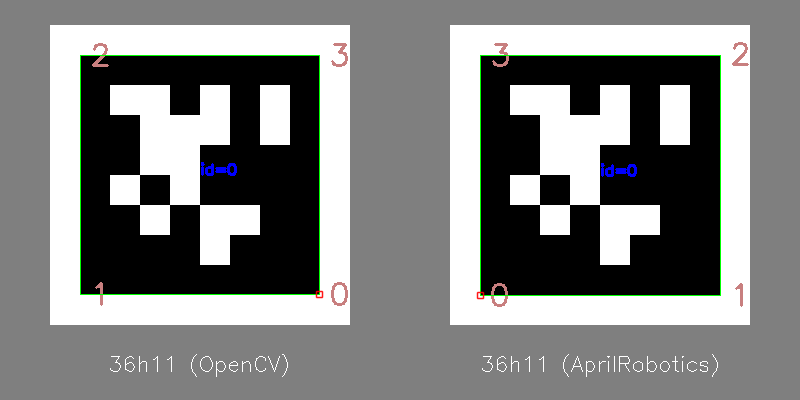
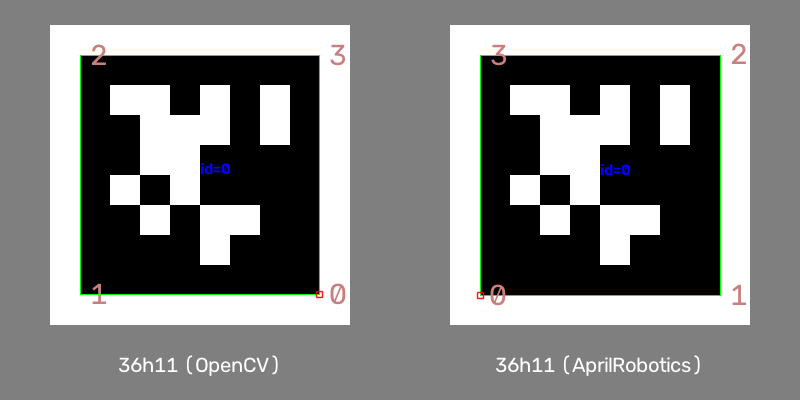
Merge pull request #28823 from s-trinh:fix_apriltag_corners_order_update_doc
[OpenCV 5] Fix apriltag corners order and update the doc #28823

I have updated documentation for the AprilTag dictionaries.

Corresponding issues:
- https://github.com/opencv/opencv-python/issues/1195
- https://stackoverflow.com/questions/79044142/why-is-the-order-of-the-incoming-corners-different-between-apriltag-and-aruco-ma

This is a breaking change and is targeted only for OpenCV 5.

---

I have updated the ArUco doc with more information about fiducial markers detection.
I have tried to add some recommendations, best practices:
-  `DICT_ARUCO_MIP_36h12` should be the recommended family, [see](https://stackoverflow.com/a/51511558)
- link to download pregenerated markers for `MIP_36h12` is [here](https://sourceforge.net/projects/aruco/files/. I have not found some other official links for the other ArUco family, but since `MIP_36h12` should be used, I guess it is fined.
- recommendation to have a white border when printing the marker

### Pull Request Readiness Checklist

See details at https://github.com/opencv/opencv/wiki/How_to_contribute#making-a-good-pull-request

- [x] I agree to contribute to the project under Apache 2 License.
- [x] To the best of my knowledge, the proposed patch is not based on a code under GPL or another license that is incompatible with OpenCV
- [x] The PR is proposed to the proper branch
- [x] There is a reference to the original bug report and related work
[…]

diff --git a/modules/objdetect/include/opencv2/objdetect.hpp b/modules/objdetect/include/opencv2/objdetect.hpp
@@ -74,7 +74,7 @@
 
         The implementation is based on the ArUco Library by R. Muñoz-Salinas and S. Garrido-Jurado @cite Aruco2014.
 
-        Markers can also be detected based on the AprilTag 2 @cite wang2016iros fiducial detection method.
+        Markers can also be detected based on the AprilTag 2 @cite wang2016iros fiducial marker detection method.
 
         @sa @cite Aruco2014
         This code has been originally developed by Sergio Garrido-Jurado as a project
@@ -136,7 +136,7 @@
 
         To estimate the marker pose with respect to the camera frame, we recommend you to look at the following sources of information:
           - @ref tutorial_aruco_detection for a tutorial about ArUco markers detection
-          - @ref calib for some theoretical background about the pinhole camera model and the @ref calib3d_solvePnP page
+          - @ref _3d for some theoretical background about the pinhole camera model and the @ref calib3d_solvePnP page
           - @ref solvePnP, @ref solvePnPGeneric, @ref solveP3P for the relevant pose estimation methods
     @}
 
